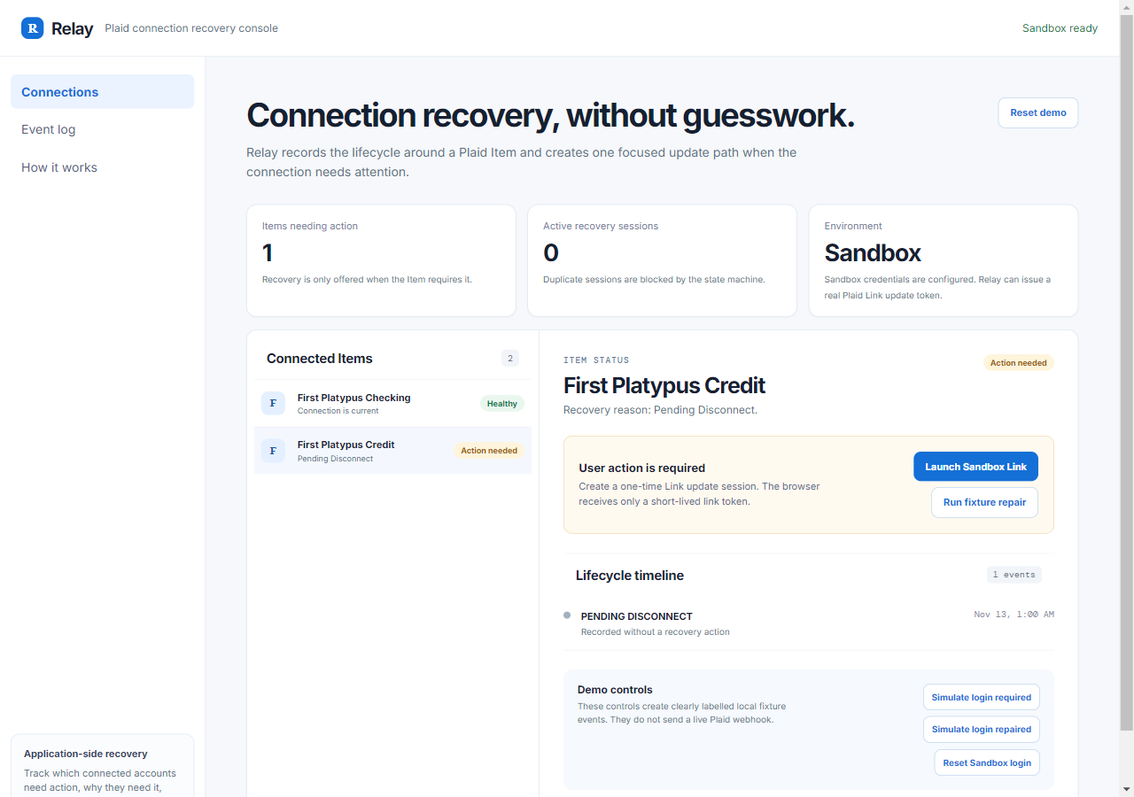
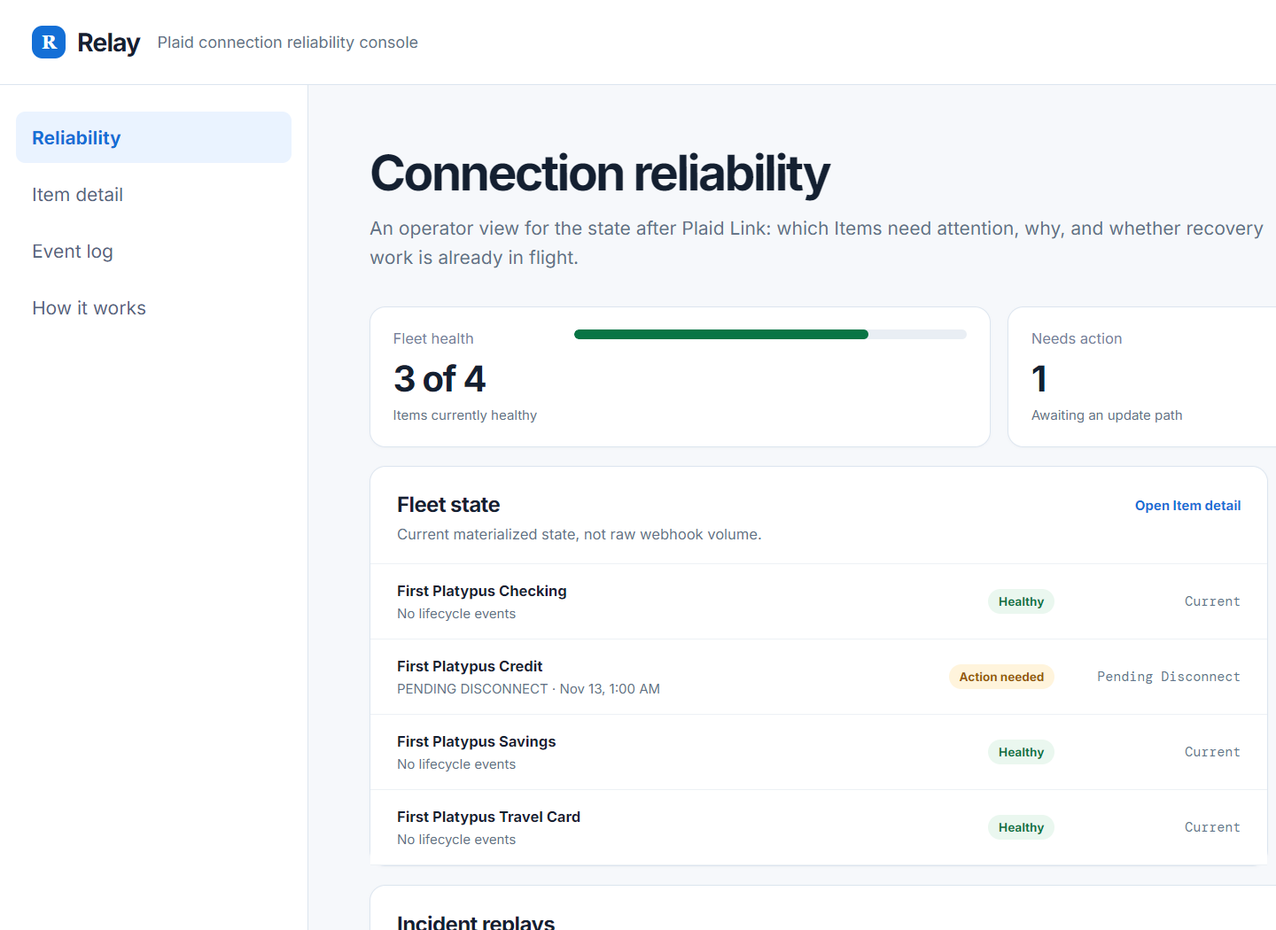
feat: add connection reliability replays

diff --git a/app.js b/app.js
@@ -1,5 +1,5 @@
 const app = document.querySelector("#app");
-const state = { view: "connections", overview: null, selectedId: "item-credit", activeSession: null, toast: null };
+const state = { view: "reliability", overview: null, replayCases: [], selectedReplayId: "duplicate-delivery", selectedId: "item-credit", activeSession: null, toast: null };
 
 const escapeHtml = (value) => String(value ?? "").replace(/[&<>"']/g, (char) => ({ "&": "&amp;", "<": "&lt;", ">": "&gt;", '"': "&quot;", "'": "&#39;" })[char]);
 const label = (value) => String(value ?? "").replaceAll("_", " ").replace(/\b\w/g, (letter) => letter.toUpperCase());
@@ -13,7 +13,9 @@ async function request(path, options = {}) {
 }
 
 async function refresh() {
-  state.overview = await request("/api/relay/overview");
+  const [overview, replays] = await Promise.all([request("/api/relay/overview"), request("/api/relay/replays")]);
+  state.overview = overview;
+  state.replayCases = replays.cases;
   if (!state.overview.items.some((item) => item.id === state.selectedId)) state.selectedId = state.overview.items[0]?.id;
   draw();
 }
@@ -30,6 +32,11 @@ function header(title, copy, action = "") {
 
 function connectionRow(item) {
   return `<button class="connection-row ${item.id === state.selectedId ? "selected" : ""}" data-item="${escapeHtml(item.id)}"><span class="connection-mark">${escapeHtml(item.label.slice(0, 1))}</span><span><strong>${escapeHtml(item.label)}</strong><small>${item.reason ? label(item.reason) : "Connection is current"}</small></span>${status(item)}</button>`;
+}
+
+function fleetRow(item) {
+  const latest = state.overview.events.find((entry) => entry.itemId === item.id);
+  return `<button class="fleet-row" data-select-item="${escapeHtml(item.id)}"><span><strong>${escapeHtml(item.label)}</strong><small>${latest ? `${label(latest.kind)} · ${timestamp(latest.occurredAt)}` : "No lifecycle events"}</small></span>${status(item)}<span class="fleet-reason">${escapeHtml(item.reason ? label(item.reason) : "Current")}</span></button>`;
 }
 
 function eventRow(event) {
@@ -49,7 +56,17 @@ function renderConnections() {
   if (item.status === "recovery_required") action = `<div class="action-pair"><button class="primary" data-action="recover">${overview.sandbox.configured ? "Launch Sandbox Link" : "Start recovery"}</button>${overview.sandbox.configured ? '<button class="secondary" data-action="fixture-recover">Run fixture repair</button>' : ""}</div>`;
   if (item.status === "recovery_in_progress" && session?.mode === "fixture") action = `<button class="primary" data-action="complete" data-session="${escapeHtml(session.id)}">Complete simulated repair</button>`;
   if (item.status === "recovery_in_progress" && session?.mode === "sandbox") action = `<span class="status progress">Link session issued</span>`;
-  return `<div class="page">${header("Connection recovery, without guesswork.", "Relay records the lifecycle around a Plaid Item and creates one focused update path when the connection needs attention.", '<button class="secondary" data-action="reset">Reset demo</button>')}<section class="summary-strip"><article><span>Items needing action</span><strong>${actionCount}</strong><small>Recovery is only offered when the Item requires it.</small></article><article><span>Active recovery sessions</span><strong>${overview.sessions.filter((entry) => ["issued", "in_progress"].includes(entry.status)).length}</strong><small>Duplicate sessions are blocked by the state machine.</small></article><article><span>Environment</span><strong>${overview.sandbox.configured ? "Sandbox" : "Fixture"}</strong><small>${escapeHtml(sandboxCopy)}</small></article></section><section class="workbench"><aside class="item-list"><div class="list-heading"><h2>Connected Items</h2><span>${overview.items.length}</span></div>${overview.items.map(connectionRow).join("")}</aside><section class="detail-panel"><div class="detail-head"><div><p class="section-label">ITEM STATUS</p><h2>${escapeHtml(item.label)}</h2><p>${item.status === "healthy" ? "No user action is needed." : `Recovery reason: ${label(item.reason)}.`}</p></div>${status(item)}</div><div class="recovery-callout ${item.status === "healthy" ? "quiet" : ""}"><div><strong>${item.status === "healthy" ? "Connection is healthy" : item.status === "recovery_in_progress" ? "Recovery session is active" : "User action is required"}</strong><p>${item.status === "healthy" ? "Relay will retain the event history and wait for a newer lifecycle signal." : item.status === "recovery_in_progress" ? "A second update Link session cannot be issued while this session is active." : "Create a one-time Link update session. The browser receives only a short-lived link token."}</p></div>${action}</div><div class="timeline"><div class="list-heading"><h2>Lifecycle timeline</h2><span>${events.length} events</span></div>${events.length ? events.map(eventRow).join("") : '<p class="empty">No events recorded for this Item.</p>'}</div><div class="demo-controls"><div><h3>Demo controls</h3><p>These controls create clearly labelled local fixture events. They do not send a live Plaid webhook.</p></div><div><button class="secondary" data-action="login-required">Simulate login required</button><button class="secondary" data-action="self-heal">Simulate login repaired</button>${overview.sandbox.configured ? '<button class="secondary" data-action="sandbox-reset">Reset Sandbox login</button>' : ""}</div></div></section></section></div>`;
+  return `<div class="page">${header("Connection recovery", "Relay records the lifecycle around a Plaid Item and creates one focused update path when the connection needs attention.", '<button class="secondary" data-action="reset">Reset demo</button>')}<section class="summary-strip"><article><span>Items needing action</span><strong>${actionCount}</strong><small>Recovery is only offered when the Item requires it.</small></article><article><span>Active recovery sessions</span><strong>${overview.sessions.filter((entry) => ["issued", "in_progress"].includes(entry.status)).length}</strong><small>Duplicate sessions are blocked by the state machine.</small></article><article><span>Environment</span><strong>${overview.sandbox.configured ? "Sandbox" : "Fixture"}</strong><small>${escapeHtml(sandboxCopy)}</small></article></section><section class="workbench"><aside class="item-list"><div class="list-heading"><h2>Connected Items</h2><span>${overview.items.length}</span></div>${overview.items.map(connectionRow).join("")}</aside><section class="detail-panel"><div class="detail-head"><div><p class="section-label">ITEM STATUS</p><h2>${escapeHtml(item.label)}</h2><p>${item.status === "healthy" ? "No user action is needed." : `Recovery reason: ${label(item.reason)}.`}</p></div>${status(item)}</div><div class="recovery-callout ${item.status === "healthy" ? "quiet" : ""}"><div><strong>${item.status === "healthy" ? "Connection is healthy" : item.status === "recovery_in_progress" ? "Recovery session is active" : "User action is required"}</strong><p>${item.status === "healthy" ? "Relay will retain the event history and wait for a newer lifecycle signal." : item.status === "recovery_in_progress" ? "A second update Link session cannot be issued while this session is active." : "Create a one-time Link update session. The browser receives only a short-lived link token."}</p></div>${action}</div><div class="timeline"><div class="list-heading"><h2>Lifecycle timeline</h2><span>${events.length} events</span></div>${events.length ? events.map(eventRow).join("") : '<p class="empty">No events recorded for this Item.</p>'}</div><div class="demo-controls"><div><h3>Demo controls</h3><p>These controls create clearly labelled local fixture events. They do not send a live Plaid webhook.</p></div><div><button class="secondary" data-action="login-required">Simulate login required</button><button class="secondary" data-action="self-heal">Simulate login repaired</button>${overview.sandbox.configured ? '<button class="secondary" data-action="sandbox-reset">Reset Sandbox login</button>' : ""}</div></div></section></section></div>`;
+}
+
+function renderReliability() {
+  const reliability = state.overview.reliability;
+  const selectedReplay = state.replayCases.find((entry) => entry.id === state.selectedReplayId) ?? state.replayCases[0];
+  const activeReplay = state.overview.replay;
+  return `<div class="page reliability-page">${header("Connection reliability", "An operator view for the state after Plaid Link: which Items need attention, why, and whether recovery work is already in flight.", '<button class="secondary" data-action="reset">Restore baseline</button>')}
+  <section class="reliability-summary"><div class="health-summary"><div><span>Fleet health</span><strong>${reliability.healthy} of ${reliability.total}</strong><p>Items currently healthy</p></div><div class="health-bar" aria-label="${reliability.healthy} of ${reliability.total} Items healthy"><i style="width:${reliability.total ? (reliability.healthy / reliability.total) * 100 : 0}%"></i></div></div><div><span>Needs action</span><strong>${reliability.actionRequired}</strong><p>Awaiting an update path</p></div><div><span>In progress</span><strong>${reliability.inProgress}</strong><p>${reliability.activeSessions} active session${reliability.activeSessions === 1 ? "" : "s"}</p></div></section>
+  <section class="operator-grid"><section class="fleet-panel"><div class="panel-heading"><div><h2>Fleet state</h2><p>Current materialized state, not raw webhook volume.</p></div><button class="quiet-button" data-view="connections">Open Item detail</button></div><div class="fleet-list">${state.overview.items.map(fleetRow).join("")}</div></section><section class="signal-panel"><div class="panel-heading"><div><h2>Latest decision</h2><p>${activeReplay ? "Loaded from a labelled local replay." : "Baseline fixture is active."}</p></div>${activeReplay ? '<span class="fixture-badge">Fixture replay</span>' : '<span class="fixture-badge neutral">Baseline</span>'}</div>${activeReplay ? `<h3>${escapeHtml(activeReplay.label)}</h3><p class="signal-copy">${escapeHtml(activeReplay.summary)}</p><dl class="decision-facts"><div><dt>Events evaluated</dt><dd>${activeReplay.outcomes.length}</dd></div><div><dt>Final Item state</dt><dd>${escapeHtml(state.overview.items.find((item) => item.id === "item-credit")?.status.replaceAll("_", " ") ?? "—")}</dd></div></dl><button class="secondary" data-select-item="item-credit" data-view="connections">Inspect the audit trail</button>` : `<h3>Recovery required</h3><p class="signal-copy">The baseline fixture contains one pending disconnect. Open the Item detail to see the reason, event history, and repair path.</p><button class="secondary" data-select-item="item-credit" data-view="connections">Inspect the Item</button>`}</section></section>
+  <section class="replay-panel"><div class="panel-heading"><div><h2>Incident replays</h2><p>Deterministic fixtures that expose the failure mode a naive integration can miss.</p></div></div><div class="replay-layout"><div class="replay-list">${state.replayCases.map((entry) => `<button class="replay-choice ${entry.id === selectedReplay.id ? "selected" : ""}" data-replay="${escapeHtml(entry.id)}"><strong>${escapeHtml(entry.label)}</strong><span>${escapeHtml(entry.summary)}</span></button>`).join("")}</div><div class="replay-detail"><h3>${escapeHtml(selectedReplay.label)}</h3><p>${escapeHtml(selectedReplay.summary)}</p><div class="comparison"><div><span>Without the guard</span><p>${escapeHtml(selectedReplay.unsafeOutcome)}</p></div><div><span>Relay's outcome</span><p>${escapeHtml(selectedReplay.guardedOutcome)}</p></div></div><button class="primary" data-action="run-replay" data-replay="${escapeHtml(selectedReplay.id)}">Run this replay</button></div></div></section></div>`;
 }
 
 function renderEvents() {
@@ -63,7 +80,7 @@ function renderAbout() {
 
 function draw() {
   if (!state.overview) return;
-  app.innerHTML = state.view === "events" ? renderEvents() : state.view === "about" ? renderAbout() : renderConnections();
+  app.innerHTML = state.view === "events" ? renderEvents() : state.view === "about" ? renderAbout() : state.view === "connections" ? renderConnections() : renderReliability();
   document.querySelectorAll("[data-view]").forEach((button) => button.classList.toggle("active", button.dataset.view === state.view));
   const env = document.querySelector("#environment");
   env.textContent = state.overview.sandbox.configured ? "Sandbox ready" : "Fixture mode";
@@ -89,10 +106,15 @@ document.addEventListener("click", async (event) => {
   if (view) { state.view = view.dataset.view; draw(); return; }
   const item = event.target.closest("[data-item]");
   if (item) { state.selectedId = item.dataset.item; draw(); return; }
+  const selectedItem = event.target.closest("[data-select-item]");
+  if (selectedItem) { state.selectedId = selectedItem.dataset.selectItem; if (selectedItem.dataset.view) state.view = selectedItem.dataset.view; draw(); return; }
+  const replay = event.target.closest("[data-replay]");
+  if (replay && !event.target.closest("[data-action]")) { state.selectedReplayId = replay.dataset.replay; draw(); return; }
   const action = event.target.closest("[data-action]")?.dataset.action;
   if (!action) return;
   try {
     if (action === "reset") { await request("/api/relay/demo/reset", { method: "POST" }); state.selectedId = "item-credit"; state.toast = "Fixture timeline reset."; }
+    if (action === "run-replay") { const result = await request("/api/relay/demo/replay", { method: "POST", body: JSON.stringify({ caseId: event.target.closest("[data-replay]").dataset.replay }) }); state.overview = result; state.selectedId = "item-credit"; state.toast = `${result.replay.label} replay loaded.`; }
     if (action === "login-required") { await applyFixture("ITEM_ERROR", "ITEM_LOGIN_REQUIRED"); state.toast = "Simulated ITEM_LOGIN_REQUIRED event recorded."; }
     if (action === "self-heal") { await applyFixture("LOGIN_REPAIRED"); state.toast = "Simulated LOGIN_REPAIRED event recorded."; }
     if (action === "sandbox-reset") { await request(`/api/relay/items/${encodeURIComponent(state.selectedId)}/sandbox-reset`, { method: "POST", body: "{}" }); state.toast = "Sandbox login reset and recovery event recorded."; }

diff --git a/styles.css b/styles.css
@@ -13,6 +13,7 @@ nav { display:grid; gap:4px; } nav button { border:0; border-radius:7px; padding
 .page { width:min(1240px,100%); margin:auto; padding:46px; }.page-head { display:flex; justify-content:space-between; align-items:flex-start; gap:24px; margin-bottom:25px; }.page-head h1 { max-width:700px; margin:0 0 11px; font-size:37px; line-height:1.07; letter-spacing:-1.8px; }.page-head p { max-width:690px; margin:0; color:var(--muted); line-height:1.6; }
 .primary,.secondary { border-radius:8px; padding:10px 13px; font-size:11px; font-weight:700; }.primary { border:0; color:#fff; background:var(--blue); }.primary:hover { background:#0f5ead; }.secondary { border:1px solid #bad2ee; color:var(--blue); background:#fff; }.secondary:hover { background:#f4f8fd; }
 .summary-strip { display:grid; grid-template-columns:repeat(3,1fr); gap:13px; margin-bottom:14px; }.summary-strip article,.workbench,.ledger,.explain-grid article,.flow-panel { border:1px solid var(--line); border-radius:12px; background:var(--panel); box-shadow:0 1px 2px #18243408; }.summary-strip article { padding:17px; }.summary-strip span { display:block; color:#718199; font-size:11px; }.summary-strip strong { display:block; margin:7px 0 5px; font-size:27px; letter-spacing:-1px; }.summary-strip small { color:var(--muted); font-size:10px; line-height:1.45; }
+.reliability-summary { display:grid; grid-template-columns:minmax(0,1.5fr) minmax(0,1fr) minmax(0,1fr); gap:13px; margin-bottom:14px; }.reliability-summary>div,.operator-grid>section,.replay-panel { border:1px solid var(--line); border-radius:12px; background:var(--panel); box-shadow:0 1px 2px #18243408; }.reliability-summary>div { min-width:0; padding:17px; }.reliability-summary span { display:block; color:#718199; font-size:11px; }.reliability-summary strong { display:block; margin:7px 0 5px; font-size:27px; letter-spacing:-1px; }.reliability-summary p { margin:0; color:var(--muted); font-size:10px; }.health-summary { display:grid; grid-template-columns:auto minmax(80px,1fr); column-gap:22px; align-items:end; }.health-summary>div:first-child { grid-row:span 2; }.health-bar { align-self:center; height:7px; overflow:hidden; border-radius:99px; background:#e9eef4; }.health-bar i { display:block; height:100%; border-radius:inherit; background:var(--green); }.operator-grid { display:grid; grid-template-columns:minmax(0,1.35fr) minmax(300px,.85fr); gap:14px; margin-bottom:14px; }.panel-heading { display:flex; justify-content:space-between; align-items:flex-start; gap:16px; padding:19px 20px 14px; }.panel-heading h2 { margin:0 0 5px; font-size:16px; letter-spacing:-.4px; }.panel-heading p { margin:0; color:var(--muted); font-size:11px; line-height:1.45; }.quiet-button { border:0; padding:4px 0; color:var(--blue); background:transparent; font-size:10px; font-weight:700; }.fixture-badge { padding:4px 7px; border-radius:5px; color:#2367aa; background:var(--blue-weak); font:10px "DM Mono",monospace; white-space:nowrap; }.fixture-badge.neutral { color:#63758b; background:#f0f3f7; }.fleet-list { border-top:1px solid #edf1f5; }.fleet-row { display:grid; grid-template-columns:minmax(0,1fr) auto 126px; gap:14px; align-items:center; width:100%; border:0; border-bottom:1px solid #edf1f5; padding:13px 20px; color:var(--ink); background:#fff; text-align:left; }.fleet-row:hover { background:#f7faff; }.fleet-row strong,.fleet-row small { display:block; }.fleet-row strong { font-size:11px; }.fleet-row small { margin-top:4px; color:var(--muted); font-size:10px; }.fleet-reason { color:#62758d; font:10px "DM Mono",monospace; text-align:right; }.signal-panel { padding-bottom:20px; }.signal-panel h3,.signal-panel .signal-copy,.decision-facts,.signal-panel>.secondary { margin-left:20px; margin-right:20px; }.signal-panel h3 { margin-top:7px; margin-bottom:7px; font-size:19px; letter-spacing:-.6px; }.signal-copy { margin-top:0; color:var(--muted); font-size:11px; line-height:1.55; }.decision-facts { display:grid; grid-template-columns:1fr 1fr; gap:8px; margin-top:18px; margin-bottom:18px; }.decision-facts div { padding:10px; border-radius:8px; background:#f6f9fc; }.decision-facts dt { color:#697c93; font-size:9px; }.decision-facts dd { margin:5px 0 0; color:#2e435d; font-size:11px; font-weight:700; text-transform:capitalize; }.replay-panel { overflow:hidden; }.replay-layout { display:grid; grid-template-columns:285px minmax(0,1fr); border-top:1px solid #edf1f5; }.replay-list { padding:8px; border-right:1px solid var(--line); }.replay-choice { display:grid; gap:4px; width:100%; border:0; border-radius:8px; padding:12px; color:var(--ink); background:transparent; text-align:left; }.replay-choice:hover,.replay-choice.selected { background:#f2f7fe; }.replay-choice.selected strong { color:var(--blue); }.replay-choice strong { font-size:11px; }.replay-choice span { color:var(--muted); font-size:10px; line-height:1.4; }.replay-detail { padding:23px 25px; }.replay-detail h3 { margin:0 0 7px; font-size:20px; letter-spacing:-.6px; }.replay-detail>p { max-width:620px; margin:0; color:var(--muted); font-size:12px; line-height:1.5; }.comparison { display:grid; grid-template-columns:1fr 1fr; gap:12px; margin:19px 0; }.comparison>div { padding:13px; border-radius:9px; background:#f7f9fc; }.comparison>div:last-child { background:#f4f9f6; }.comparison span { color:#657990; font:10px "DM Mono",monospace; }.comparison>div:last-child span { color:var(--green); }.comparison p { margin:7px 0 0; color:#40566f; font-size:11px; line-height:1.55; }
 .workbench { display:grid; grid-template-columns:330px minmax(0,1fr); overflow:hidden; }.item-list { display:block; padding:8px; border-right:1px solid var(--line); }.list-heading { display:flex; align-items:center; justify-content:space-between; gap:12px; padding:14px; }.list-heading h2 { margin:0; font-size:15px; letter-spacing:-.35px; }.list-heading span { padding:3px 7px; border-radius:5px; color:#5c6f87; background:#f1f5f9; font:10px "DM Mono",monospace; }
 .connection-row { display:grid; grid-template-columns:31px minmax(0,1fr) auto; align-items:center; gap:10px; width:100%; border:0; border-top:1px solid #edf1f5; padding:13px 8px; color:var(--ink); background:#fff; text-align:left; }.connection-row:hover,.connection-row.selected { background:#f4f8fe; }.connection-mark { display:grid; place-items:center; width:27px; height:27px; border-radius:8px; color:#185aa9; background:#e4f0ff; font:700 11px Georgia; }.connection-row strong,.connection-row small { display:block; }.connection-row strong { font-size:11px; }.connection-row small { margin-top:3px; color:var(--muted); font-size:9px; }
 .status { display:inline-flex; width:max-content; align-items:center; border-radius:999px; padding:4px 8px; font-size:9px; font-weight:700; white-space:nowrap; }.status.healthy { color:var(--green); background:var(--green-weak); }.status.action { color:var(--amber); background:var(--amber-weak); }.status.progress { color:#2367aa; background:var(--blue-weak); }
@@ -24,5 +25,5 @@ nav { display:grid; gap:4px; } nav button { border:0; border-radius:7px; padding
 .ledger { overflow:hidden; }.ledger-head,.ledger-row { display:grid; grid-template-columns:1.1fr 1.2fr .8fr .8fr; gap:12px; align-items:center; padding:14px 19px; }.ledger-head { color:#6f8096; background:#fbfcfe; font:10px "DM Mono",monospace; letter-spacing:.07em; }.ledger-row { border-top:1px solid #edf1f5; font-size:11px; }.ledger-row span,.ledger-row time { color:var(--muted); }.event-outcome { width:max-content; padding:4px 7px; border-radius:5px; background:#eff4fa; font-size:9px; }.event-outcome.applied { color:var(--blue); background:var(--blue-weak); }.event-outcome.ignored_stale { color:#718199; background:#eef1f5; }
 .explain-grid { display:grid; grid-template-columns:repeat(3,1fr); gap:13px; }.explain-grid article,.flow-panel { padding:22px; }.explain-grid h2,.flow-panel h2 { margin:0 0 9px; font-size:18px; letter-spacing:-.5px; }.explain-grid p,.flow-panel p { margin:0; color:var(--muted); font-size:12px; line-height:1.55; }.flow-panel { margin-top:14px; }.flow { display:flex; align-items:center; gap:10px; margin:21px 0; }.flow span { flex:1; padding:12px; border-radius:8px; color:#27517e; background:#edf5ff; text-align:center; font-size:11px; font-weight:700; }.flow i { width:20px; height:1px; background:#9abce4; }
 .toast { position:fixed; right:22px; bottom:22px; max-width:350px; padding:13px 15px; border:1px solid #b7d6ee; border-radius:9px; color:#244d75; background:#f5faff; box-shadow:0 8px 25px #1720331c; font-size:11px; line-height:1.45; }.loading,.error { padding:50px; color:var(--muted); }.error h1 { color:var(--red); }
-@media (max-width:950px) { .shell { display:block; }.shell>header { position:sticky; top:0; z-index:3; height:56px; padding:0 16px; }.header-copy { display:none; } .shell > aside { position:sticky; top:56px; z-index:2; display:block; padding:8px 12px; border-right:0; border-bottom:1px solid var(--line); }.sidebar-note { display:none; } nav { grid-template-columns:repeat(3,1fr); } nav button { padding:8px; text-align:center; font-size:10px; }.page { padding:30px 18px; }.summary-strip,.explain-grid { grid-template-columns:1fr; }.workbench { grid-template-columns:1fr; }.item-list { max-height:260px; overflow:auto; border-right:0; border-bottom:1px solid var(--line); }.page-head h1 { font-size:31px; }.detail-panel { padding:20px; } }
-@media (max-width:600px) { .page-head,.detail-head,.recovery-callout,.demo-controls { display:block; }.page-head .secondary { margin-top:14px; }.recovery-callout .action-pair,.demo-controls>div:last-child { margin-top:13px; }.action-pair,.demo-controls>div:last-child { justify-content:flex-start; }.ledger-head,.ledger-row { grid-template-columns:1fr .9fr; }.ledger-head span:nth-child(3),.ledger-head span:nth-child(4),.ledger-row span:nth-child(3),.ledger-row time { display:none; }.flow { display:grid; grid-template-columns:1fr; }.flow i { display:none; }.connection-row { grid-template-columns:31px minmax(0,1fr); }.connection-row .status { grid-column:2; }.environment { font-size:10px; } }
+@media (max-width:950px) { .shell { display:block; }.shell>header { position:sticky; top:0; z-index:3; height:56px; padding:0 16px; }.header-copy { display:none; } .shell > aside { position:sticky; top:56px; z-index:2; display:block; padding:8px 12px; border-right:0; border-bottom:1px solid var(--line); }.sidebar-note { display:none; } nav { grid-template-columns:repeat(4,1fr); } nav button { padding:8px; text-align:center; font-size:10px; }.page { padding:30px 18px; }.summary-strip,.explain-grid,.reliability-summary { grid-template-columns:1fr; }.workbench,.operator-grid { grid-template-columns:1fr; }.item-list { max-height:260px; overflow:auto; border-right:0; border-bottom:1px solid var(--line); }.page-head h1 { font-size:31px; }.detail-panel { padding:20px; } }
+@media (max-width:600px) { .page-head,.detail-head,.recovery-callout,.demo-controls { display:block; }.page-head .secondary { margin-top:14px; }.recovery-callout .action-pair,.demo-controls>div:last-child { margin-top:13px; }.action-pair,.demo-controls>div:last-child { justify-content:flex-start; }.ledger-head,.ledger-row { grid-template-columns:1fr .9fr; }.ledger-head span:nth-child(3),.ledger-head span:nth-child(4),.ledger-row span:nth-child(3),.ledger-row time { display:none; }.flow { display:grid; grid-template-columns:1fr; }.flow i { display:none; }.connection-row { grid-template-columns:31px minmax(0,1fr); }.connection-row .status { grid-column:2; }.environment { font-size:10px; }.fleet-row { grid-template-columns:minmax(0,1fr) auto; }.fleet-reason { display:none; }.replay-layout { grid-template-columns:1fr; }.replay-list { border-right:0; border-bottom:1px solid var(--line); }.comparison { grid-template-columns:1fr; }.health-summary { grid-template-columns:auto minmax(100px,1fr); } }

diff --git a/src/relay-core.js b/src/relay-core.js
@@ -160,6 +160,9 @@ export function createRelayFixture() {
   const engine = createRelayEngine();
   engine.addItem({ id: "item-checking", label: "First Platypus Checking", status: "healthy" });
   engine.addItem({ id: "item-credit", label: "First Platypus Credit", status: "healthy" });
+  engine.addItem({ id: "item-savings", label: "First Platypus Savings", status: "healthy" });
+  engine.addItem({ id: "item-travel", label: "First Platypus Travel Card", status: "healthy" });
+  engine.addItem({ id: "item-travel", label: "First Platypus Travel Card", status: "healthy" });
   engine.applyEvent({
     eventId: "fixture-pending-disconnect",
     itemId: "item-credit",
@@ -169,4 +172,60 @@ export function createRelayFixture() {
     payload: { source: "fixture" },
   });
   return engine;
+}
+
+export const relayReplayCases = [
+  {
+    id: "duplicate-delivery",
+    label: "Duplicate webhook delivery",
+    summary: "The same login-required signal arrives twice.",
+    unsafeOutcome: "A handler without event idempotency can create two user prompts for one connection issue.",
+    guardedOutcome: "Relay stores the first event and marks the replay as a duplicate, leaving one recovery requirement.",
+  },
+  {
+    id: "stale-repair",
+    label: "Out-of-order repair event",
+    summary: "An older repair signal arrives after a newer connection issue.",
+    unsafeOutcome: "A handler that ignores event timestamps can clear an active problem and leave an Item silently disconnected.",
+    guardedOutcome: "Relay records the older repair event as stale and keeps the newer recovery requirement visible.",
+  },
+  {
+    id: "self-heal",
+    label: "Repair completed elsewhere",
+    summary: "Plaid reports that a login was repaired while an update session is still open.",
+    unsafeOutcome: "A handler without reconciliation can keep showing a user an unnecessary, already-resolved repair prompt.",
+    guardedOutcome: "Relay closes the obsolete work by superseding the active session and returning the Item to healthy.",
+  },
+];
+
+function replayBase() {
+  const engine = createRelayEngine();
+  engine.addItem({ id: "item-checking", label: "First Platypus Checking", status: "healthy" });
+  engine.addItem({ id: "item-credit", label: "First Platypus Credit", status: "healthy" });
+  engine.addItem({ id: "item-savings", label: "First Platypus Savings", status: "healthy" });
+  return engine;
+}
+
+export function createRelayReplay(caseId) {
+  const definition = relayReplayCases.find((entry) => entry.id === caseId);
+  if (!definition) throw new Error("Unknown replay case.");
+  const engine = replayBase();
+  const outcomes = [];
+  const apply = (input) => outcomes.push(engine.applyEvent(input));
+
+  if (caseId === "duplicate-delivery") {
+    const received = { eventId: "replay-duplicate-1", itemId: "item-credit", kind: "ITEM_ERROR", errorCode: "ITEM_LOGIN_REQUIRED", occurredAt: "2026-11-13T09:00:00.000Z", payload: { source: "replay" } };
+    apply(received);
+    apply(received);
+  }
+  if (caseId === "stale-repair") {
+    apply({ eventId: "replay-issue-new", itemId: "item-credit", kind: "ITEM_ERROR", errorCode: "ITEM_LOGIN_REQUIRED", occurredAt: "2026-11-13T09:05:00.000Z", payload: { source: "replay" } });
+    apply({ eventId: "replay-repair-old", itemId: "item-credit", kind: "LOGIN_REPAIRED", occurredAt: "2026-11-13T09:01:00.000Z", payload: { source: "replay" } });
+  }
+  if (caseId === "self-heal") {
+    apply({ eventId: "replay-issue", itemId: "item-credit", kind: "ITEM_ERROR", errorCode: "ITEM_LOGIN_REQUIRED", occurredAt: "2026-11-13T09:00:00.000Z", payload: { source: "replay" } });
+    engine.issueRecovery("item-credit", { mode: "fixture" });
+    apply({ eventId: "replay-repaired", itemId: "item-credit", kind: "LOGIN_REPAIRED", occurredAt: "2026-11-13T09:04:00.000Z", payload: { source: "replay" } });
+  }
+  return { engine, definition, outcomes };
 }

diff --git a/index.html b/index.html
@@ -15,18 +15,19 @@
     <div class="shell">
       <header>
         <a class="brand" href="#connections"><span class="brand-mark">R</span>Relay</a>
-        <span class="header-copy">Plaid connection recovery console</span>
+        <span class="header-copy">Plaid connection reliability console</span>
         <span id="environment" class="environment">Loading</span>
       </header>
       <aside>
         <nav aria-label="Primary navigation">
-          <button class="active" data-view="connections">Connections</button>
+          <button class="active" data-view="reliability">Reliability</button>
+          <button data-view="connections">Item detail</button>
           <button data-view="events">Event log</button>
           <button data-view="about">How it works</button>
         </nav>
         <div class="sidebar-note">
-          <strong>Application-side recovery</strong>
-          <span>Track which connected accounts need action, why they need it, and whether a repair session is already active.</span>
+          <strong>After Link succeeds</strong>
+          <span>Track which connected Items need action, why they need it, and whether a repair session is already active.</span>
         </div>
       </aside>
       <main id="app" aria-live="polite"><div class="loading">Loading connection health…</div></main>

diff --git a/README.md b/README.md
@@ -1,10 +1,10 @@
-# Relay — Plaid Connection Recovery Console
+# Relay — Plaid Connection Reliability Console
 
-I started this after using Plaid Connector and thinking past the initial account-linking moment. A connected Item is not permanently healthy: credentials can change, consent can expire, permissions can change, and the app needs to decide whether the user should return to Link.
+I started this after using Plaid Connector and thinking past the initial account-linking moment. A connected Item is not permanently healthy: credentials can change, consent can expire, permissions can change, and an app needs to decide whether the user should return to Link.
 
-Relay is a small application-side recovery console for that lifecycle. It records connection events, materializes the current Item state, issues one focused Link update session when recovery is needed, and dismisses work that becomes obsolete. It is deliberately narrow: not another banking dashboard and not a replacement for Plaid Link Recovery.
+Relay is a small application-side control plane for that lifecycle. It materializes a fleet view from connection events, makes each recovery decision inspectable, issues one focused Link update session when recovery is needed, and closes work that becomes obsolete. It is deliberately narrow: not another banking dashboard and not a replacement for Plaid Link Recovery.
 
-![Relay connection recovery console showing an Item that needs an update Link session](docs/relay-recovery.png)
+![Relay connection reliability console showing fleet health, current Item state, and replayable connection incidents](docs/relay-recovery.png)
 
 ## What it demonstrates
 
@@ -28,6 +28,16 @@ The console makes the application-side decisions explicit:
 - Supersede an in-progress recovery session if Plaid reports that the login was repaired elsewhere.
 - Keep access tokens and Plaid secrets on the server. The browser only receives a short-lived `link_token` for a real Sandbox Link session.
 
+## The proof surface: incident replays
+
+The main console has three deterministic replays, each framed as an operational failure mode rather than a generic demo action:
+
+- **Duplicate delivery:** the same login-required event arrives twice. Relay records the first event and rejects the replay before a second prompt can be created.
+- **Out-of-order repair:** an older `LOGIN_REPAIRED` event arrives after a newer issue. Relay keeps the current recovery requirement instead of clearing it with stale data.
+- **Repair completed elsewhere:** a newer `LOGIN_REPAIRED` arrives while an update session is open. Relay supersedes the obsolete session and returns the Item to healthy.
+
+Each replay shows the state a naive handler could leave behind alongside the guarded outcome. They are local fixtures, clearly marked in the UI, so the demo does not make claims about production traffic.
+
 ## Why Link update mode
 
 Plaid directs integrations to use update mode for `ITEM_LOGIN_REQUIRED`, `PENDING_EXPIRATION`, and `PENDING_DISCONNECT`; it also sends `LOGIN_REPAIRED` when an Item has healed through another app. Relay is an implementation exercise around those lifecycle signals, rather than a claim that Plaid lacks recovery tooling. See Plaid's [update-mode documentation](https://plaid.com/docs/link/update-mode/).
@@ -49,7 +59,7 @@ If `PLAID_CLIENT_ID` and `PLAID_SECRET` are configured, Relay also exposes a sep
 Fixture event or app-side Plaid signal
   → Relay state reducer
   → SQLite Item / event / recovery-session snapshot
-  → recovery console UI
+  → fleet reliability console and audit trail
   → optional Sandbox Link update session
 ```
 
@@ -82,7 +92,7 @@ PLAID_SECRET=...
 npm test
 ```
 
-The test suite covers login-required and pending-expiration transitions, idempotent event handling, stale self-healing events, single-session enforcement, completion, superseding sessions, and token redaction.
+The test suite covers login-required and pending-expiration transitions, idempotent event handling, stale self-healing events, single-session enforcement, completion, superseding sessions, token redaction, replay-case behavior, and API persistence.
 
 ## Scope and security boundary
 
